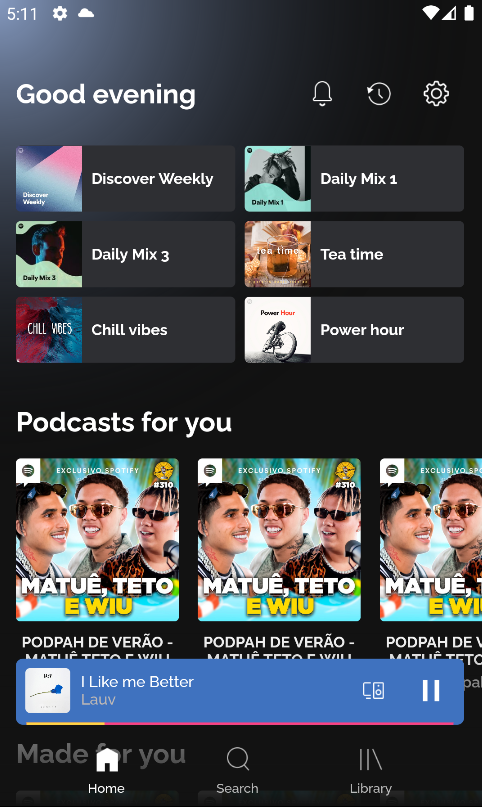
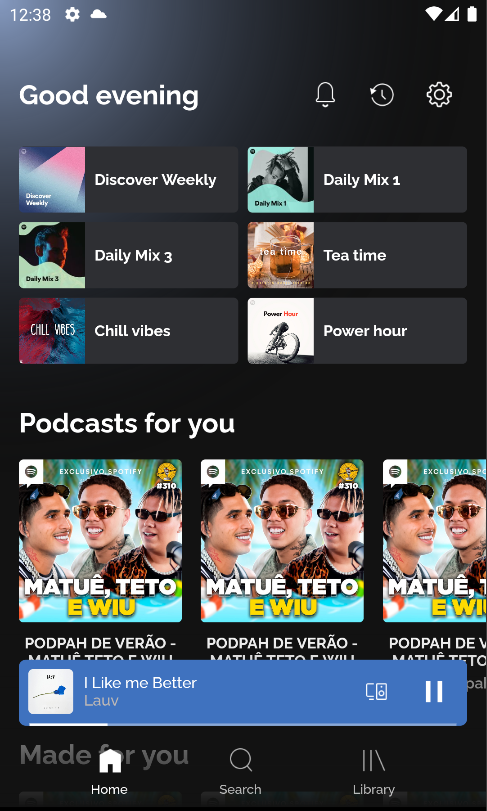
:bug: Miniplayer, screenshots fix

diff --git a/lib/screens/dashboard/components/mini_player.dart b/lib/screens/dashboard/components/mini_player.dart
@@ -72,14 +72,14 @@ class MiniPlayer extends StatelessWidget {
               Container(
                 width: MediaQuery.of(context).size.width - 50,
                 height: 2.0,
-                color: Colors.pinkAccent,
+                color: Colors.white38,
                 margin: const EdgeInsets.symmetric(horizontal: 9.0),
                 child: Stack(
                   children: [
                     Container(
                       width: 66.0,
                       height: 2.0,
-                      color: Colors.amberAccent,
+                      color: Colors.white,
                     ),
                   ],
                 ),

diff --git a/README.md b/README.md
@@ -1,8 +1,13 @@
-# Spotify Clone
-<img src="https://www.scdn.co/i/_global/open-graph-default.png" alt="Spotify Logo" width="250" />
+<center>
+  <img src="screenshots/logo.png" alt="Spotify Logo" width="250" />
+</center>
 
-### Telas
-<img src="screenshots/home.png" alt="Home" width="250" />
+
+# Telas
+## Home
+<img src="screenshots/home.png" alt="Home" width="250" /> <br />
+
+## Player
 <img src="screenshots/player.png" alt="Player" width="250" />
 
 ---
